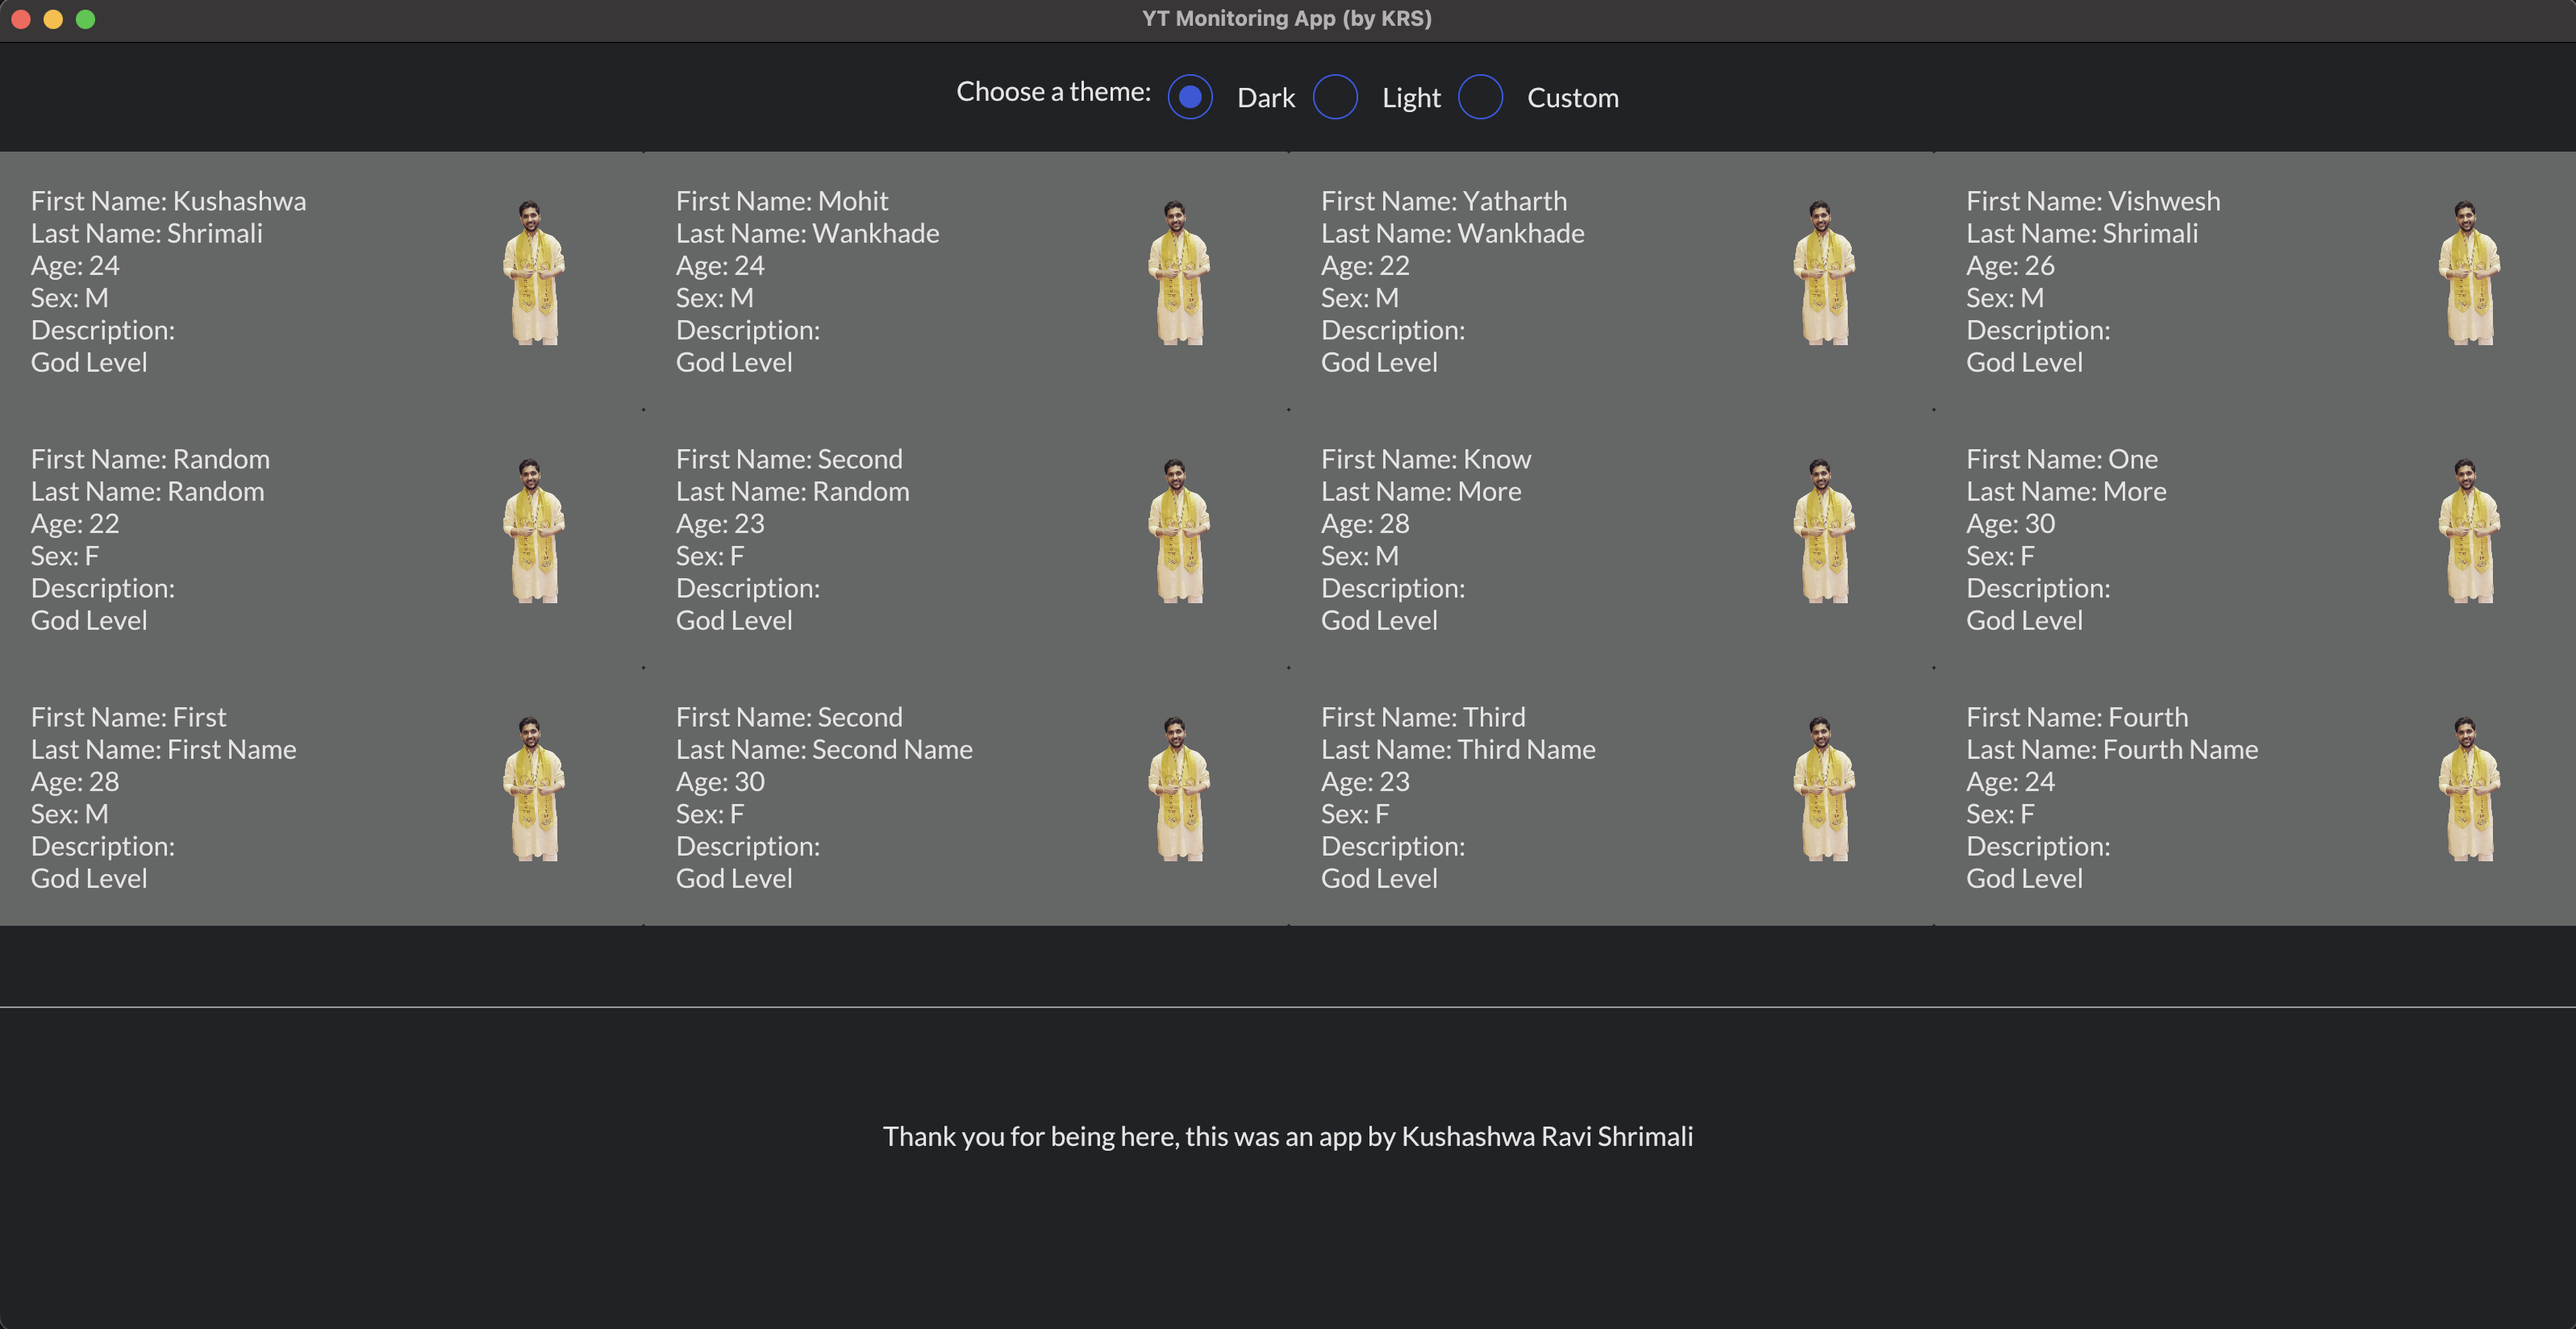
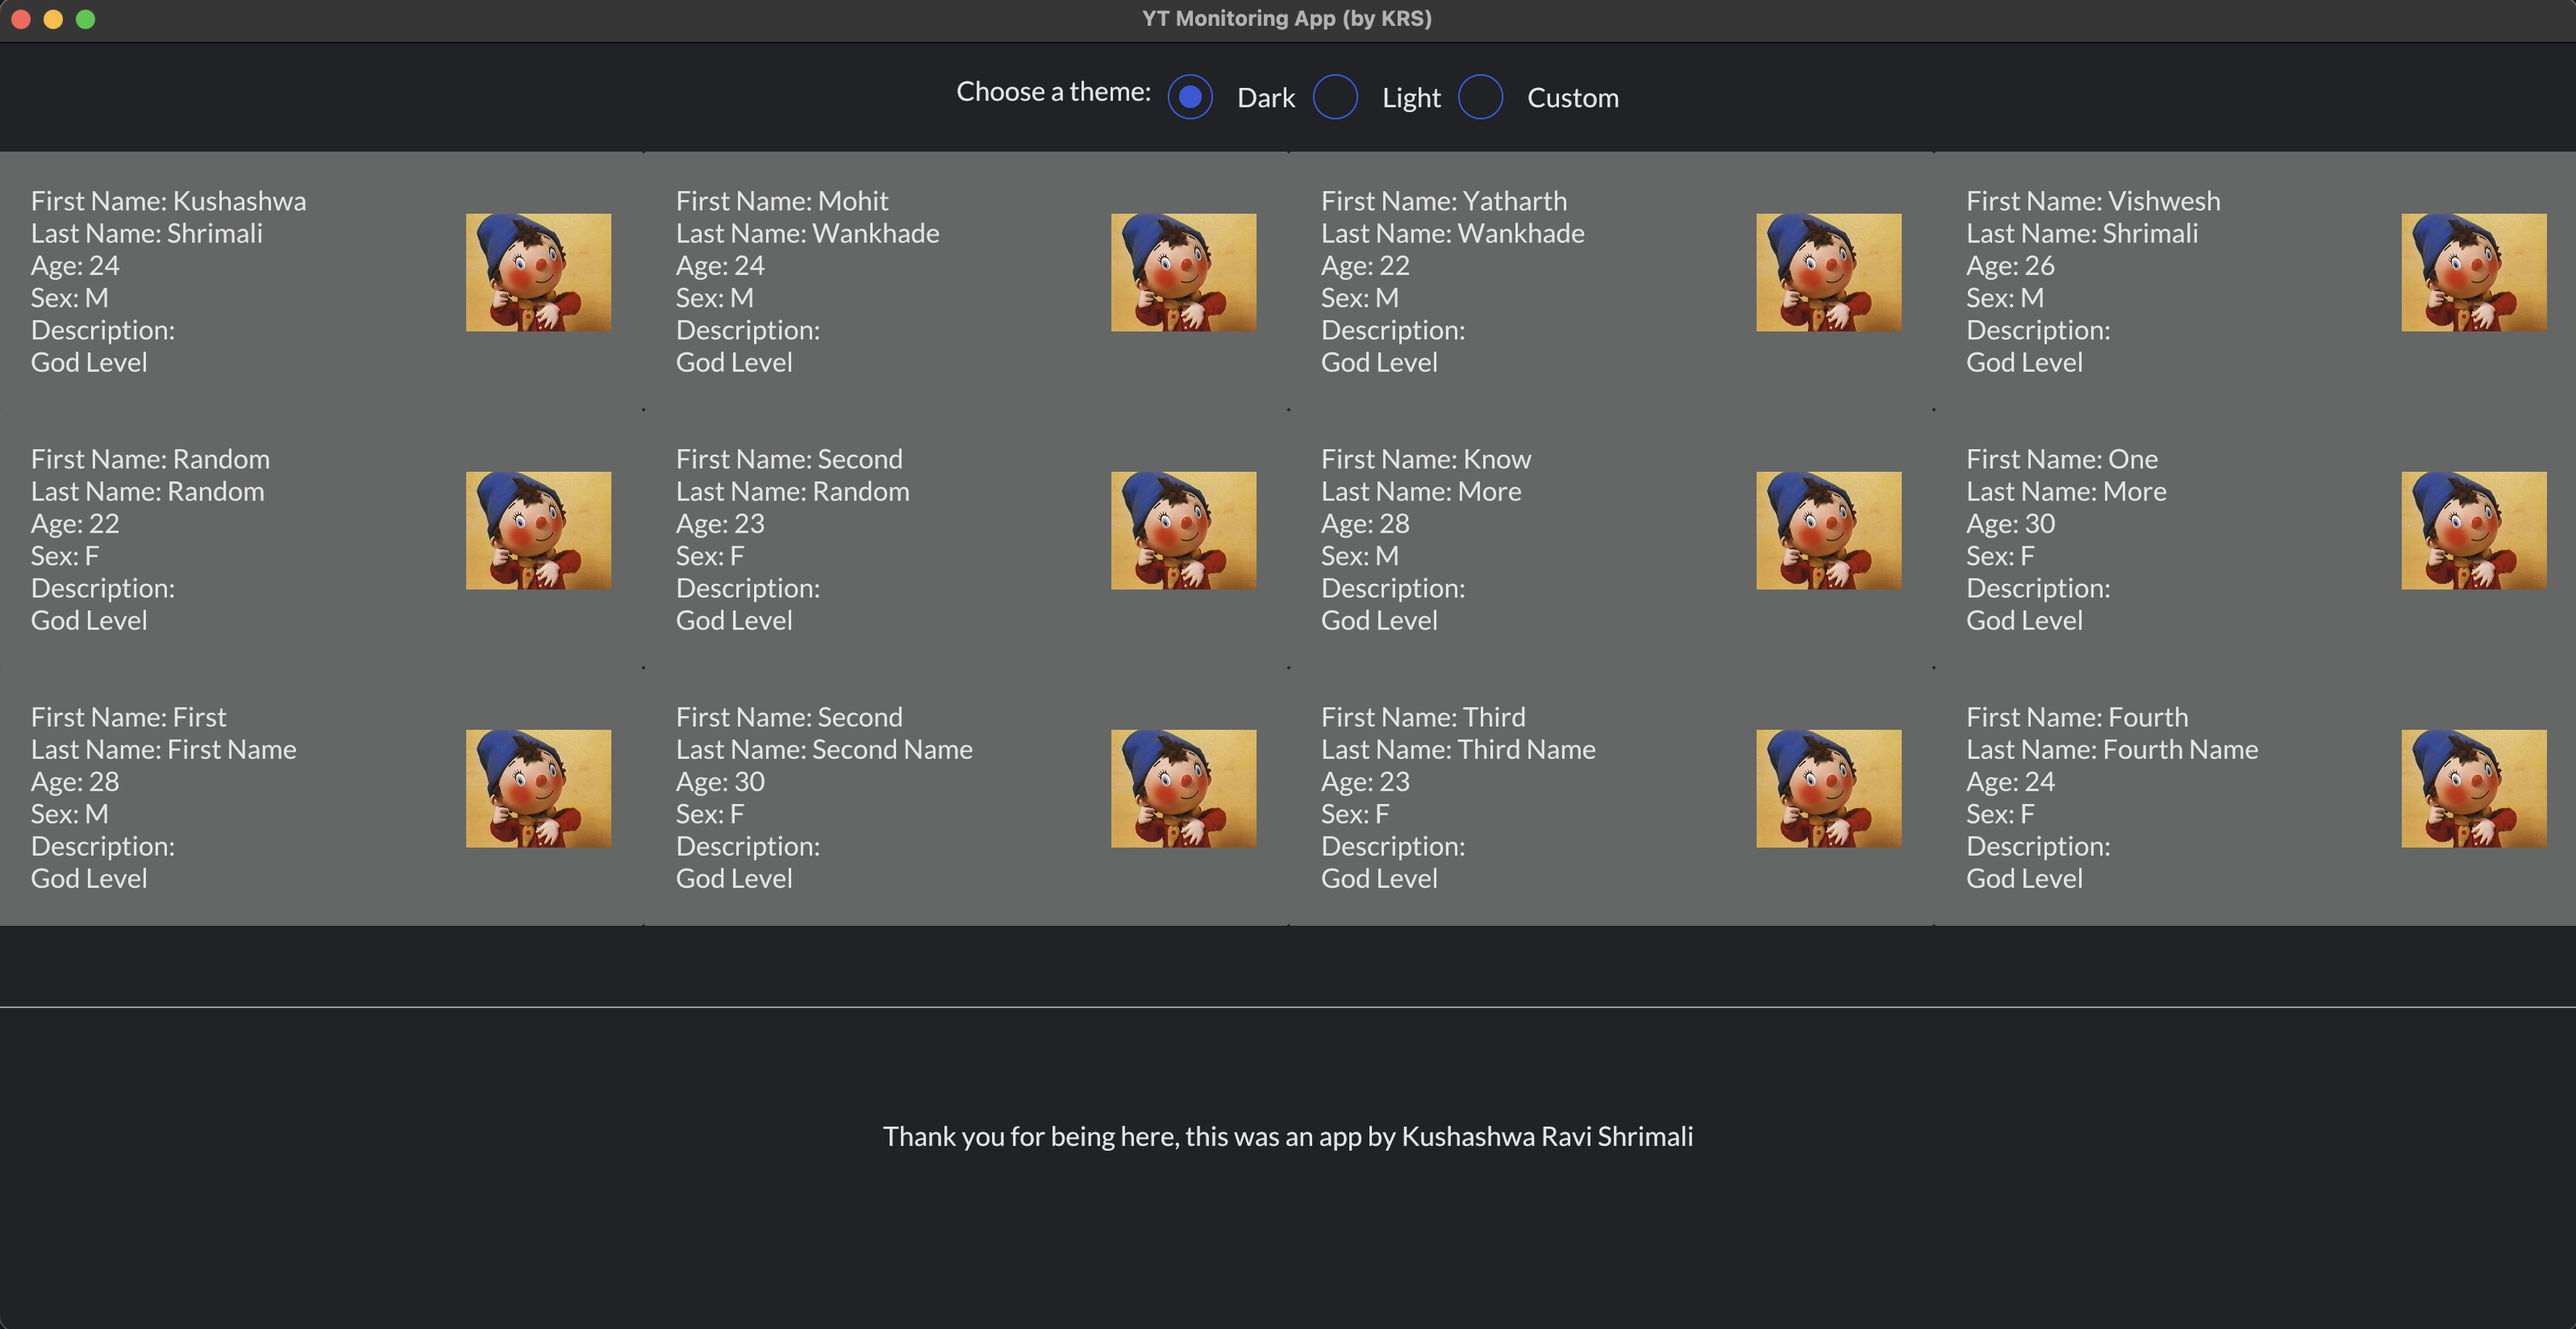
Update demo image (use Noddyyyy)

diff --git a/src/main.rs b/src/main.rs
@@ -144,10 +144,10 @@ fn profile_pic<'a>(width: u16) -> Container<'a, Message> {
         // This should go away once we unify resource loading on native
         // platforms
         if cfg!(target_arch = "wasm32") {
-            image("profile_images/Kush.png")
+            image("profile_images/Noddy.jpeg")
         } else {
             image(format!(
-                "{}/profile_images/Kush.png",
+                "{}/profile_images/Noddy.jpeg",
                 env!("CARGO_MANIFEST_DIR")
             ))
         }
